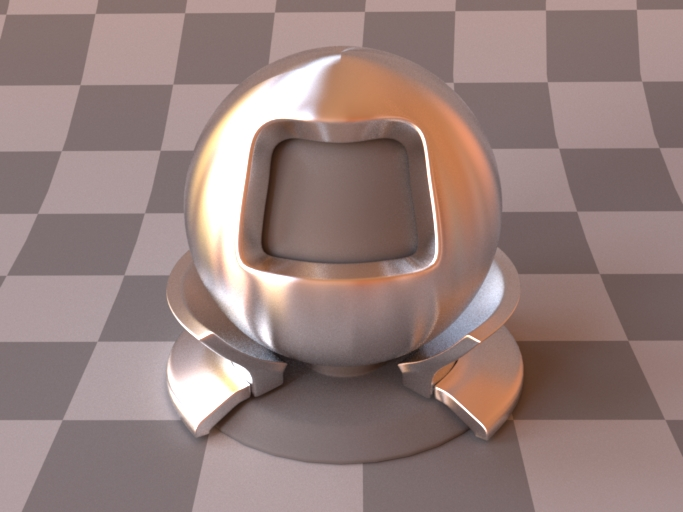
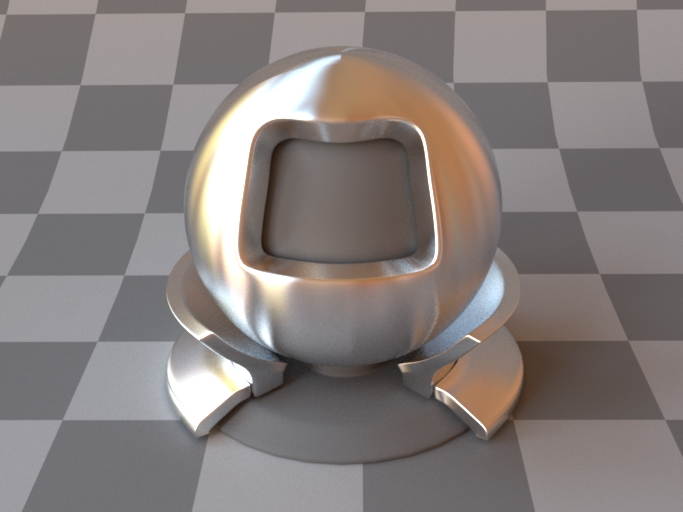
better importance sampling for the coating model, added documentation

diff --git a/src/bsdfs/coating.cpp b/src/bsdfs/coating.cpp
@@ -36,8 +36,9 @@ MTS_NAMESPACE_BEGIN
  * 
  * \renderings{
  *     \rendering{Rough copper}
- *         {bsdf_roughconductor_copper}
- *     \rendering{The same material coated with a single layer of clear varnish (see \lstref{coating-roughcopper})}
+ *         {bsdf_coating_uncoated}
+ *     \rendering{The same material coated with a single layer of 
+ *         clear varnish (see \lstref{coating-roughcopper})}
  *         {bsdf_coating_roughconductor}
  * }
  *
@@ -62,7 +63,17 @@ MTS_NAMESPACE_BEGIN
  * Evaluating the internal component of this model entails refracting the 
  * incident and exitant rays through the dielectric interface, followed by
  * querying the nested material with this modified direction pair. The result 
- * is attenuated by the two Fresnel transmittances and the absorption, if any.
+ * is attenuated by the two Fresnel transmittances and the absorption, if
+ * any.\newpage
+ *
+ * \renderings{
+ *     \smallrendering{$\code{thickness}=0$}{bsdf_coating_0}
+ *     \smallrendering{$\code{thickness}=1$}{bsdf_coating_1}
+ *     \smallrendering{$\code{thickness}=5$}{bsdf_coating_5}
+ *     \smallrendering{$\code{thickness}=15$}{bsdf_coating_15}
+ *     \caption{The effect of the layer thickness parameter on
+ *        a tinted coating ($\code{sigmaT}=(0.1, 0.2, 0.5)$)}
+ * }
  *
  * \vspace{4mm}
  *
@@ -112,16 +123,6 @@ public:
 			Log(EError, "Tried to put a smooth coating layer on top of a BSDF "
 				"with a transmission component -- this is currently not allowed!");
 
-#if COMPENSATE
-		if (m_nested->getClass()->getName() == "SmoothDiffuse") {
-			/* For an ideally diffuse material, it is known how much 
-			   energy will be lost to total internal reflection */
-			m_compensation = (m_intIOR*m_intIOR) / (m_extIOR * m_extIOR);
-		} else {
-			/* Otherwise, give up (for now) */
-			m_compensation = 1.0f;
-		}
-#endif
 		unsigned int extraFlags = 0;
 		if (!m_sigmaA->isConstant())
 			extraFlags |= ESpatiallyVarying;
@@ -134,6 +135,13 @@ public:
 
 		m_usesRayDifferentials = m_nested->usesRayDifferentials()
 			|| m_sigmaA->usesRayDifferentials();
+
+		/* Compute weights that further steer samples towards
+		   the specular or nested components */
+		Float avgAbsorption = (m_sigmaA->getAverage()
+			 *(-2*m_thickness)).exp().average();
+
+		m_specularSamplingWeight = 1.0f / (avgAbsorption + 1.0f);
 
 		BSDF::configure();
 	}
@@ -242,10 +250,6 @@ public:
 				result *= Frame::cosTheta(bRec.wo)
 					    / Frame::cosTheta(bRec2.wo);
 
-#ifdef COMPENSATE
-			result *= m_compensation;
-#endif
-
 			return result;
 		}
 	
@@ -261,15 +265,22 @@ public:
 			&& (bRec.component == -1 || bRec.component == (int) m_components.size()-1);
 		bool sampleNested = (bRec.typeMask & m_nested->getType() & BSDF::EAll)
 			&& (bRec.component == -1 || bRec.component < (int) m_components.size()-1);
+		
+		Float R12;
+		Vector wiPrime = -refract(bRec.wi, R12);
+
+		/* Reallocate samples */
+		Float probSpecular = (R12*m_specularSamplingWeight) /
+			(R12*m_specularSamplingWeight + 
+			(1-R12) * (1-m_specularSamplingWeight));
 
 		if (measure == EDiscrete && sampleSpecular &&
 			std::abs(1-dot(reflect(bRec.wi), bRec.wo)) < Epsilon) {
-			return sampleNested ? fresnel(
-				Frame::cosTheta(bRec.wi), m_extIOR, m_intIOR) : 1.0f;
+			return sampleNested ? probSpecular : 1.0f;
 		} else if (sampleNested) {
-			Float R12, R21;
+			Float R21;
 			BSDFQueryRecord bRec2(bRec);
-			bRec2.wi = -refract(bRec.wi, R12);
+			bRec2.wi = wiPrime;
 			bRec2.wo = -refract(bRec.wo, R21);
 
 			if (R12 == 1 || R21 == 1) /* Total internal reflection */
@@ -284,7 +295,7 @@ public:
 			Float eta = m_extIOR / m_intIOR;
 			pdf *= eta * eta;
 
-			return sampleSpecular ? (pdf * (1-R12)) : pdf;
+			return sampleSpecular ? (pdf * (1 - probSpecular)) : pdf;
 		} else {
 			return 0.0f;
 		}
@@ -312,12 +323,17 @@ public:
 					-cosThetaT, m_extIOR, m_intIOR);
 		}
 
+		/* Reallocate samples */
+		Float probSpecular = (R12*m_specularSamplingWeight) /
+			(R12*m_specularSamplingWeight + 
+			(1-R12) * (1-m_specularSamplingWeight));
+
 		bool choseSpecular = sampleSpecular;
 
 		Point2 sample(_sample);
 		if (sampleSpecular && sampleNested) {
-			if (sample.x > R12) {
-				sample.x = (sample.x - R12) / (1 - R12);
+			if (sample.x > probSpecular) {
+				sample.x = (sample.x - probSpecular) / (1 - probSpecular);
 				choseSpecular = false;
 			}
 		}
@@ -326,7 +342,7 @@ public:
 			bRec.sampledComponent = m_components.size()-1;
 			bRec.sampledType = EDeltaReflection;
 			bRec.wo = reflect(bRec.wi);
-			pdf = sampleNested ? R12 : 1.0f;
+			pdf = sampleNested ? probSpecular : 1.0f;
 			return Spectrum(R12);
 		} else {
 			if (R12 == 1.0f) /* Total internal reflection */
@@ -355,12 +371,8 @@ public:
 			Float cosRatio = Frame::cosTheta(bRec.wo) / cosThetaWoPrime,
 				  commonTerms = (sampledSA ? cosRatio : 1.0f)* eta * eta;
 
-			pdf *= (sampleSpecular ? (1 - R12) : 1.0f) * commonTerms;
+			pdf *= (sampleSpecular ? (1 - probSpecular) : 1.0f) * commonTerms;
 			result *= (1 - R12) * (1 - R21) * commonTerms;
-
-#ifdef COMPENSATE
-			result *= m_compensation;
-#endif
 
 			return result;
 		}
@@ -382,6 +394,7 @@ public:
 			<< "  name = \"" << getName() << "\"," << endl
 			<< "  intIOR = " << m_intIOR << "," << endl 
 			<< "  extIOR = " << m_extIOR << "," << endl
+			<< "  specularSamplingWeight = " << m_specularSamplingWeight << "," << endl
 			<< "  sigmaA = " << indent(m_sigmaA->toString()) << "," << endl
 			<< "  thickness = " << m_thickness << "," << endl
 			<< "  nested = " << indent(m_nested->toString()) << endl
@@ -391,13 +404,11 @@ public:
 
 	MTS_DECLARE_CLASS()
 protected:
+	Float m_specularSamplingWeight;
 	Float m_intIOR, m_extIOR;
 	ref<Texture> m_sigmaA;
 	ref<BSDF> m_nested;
 	Float m_thickness;
-#ifdef COMPENSATE
-	Float m_compensation;
-#endif
 };
 
 MTS_IMPLEMENT_CLASS_S(SmoothCoating, false, BSDF)
